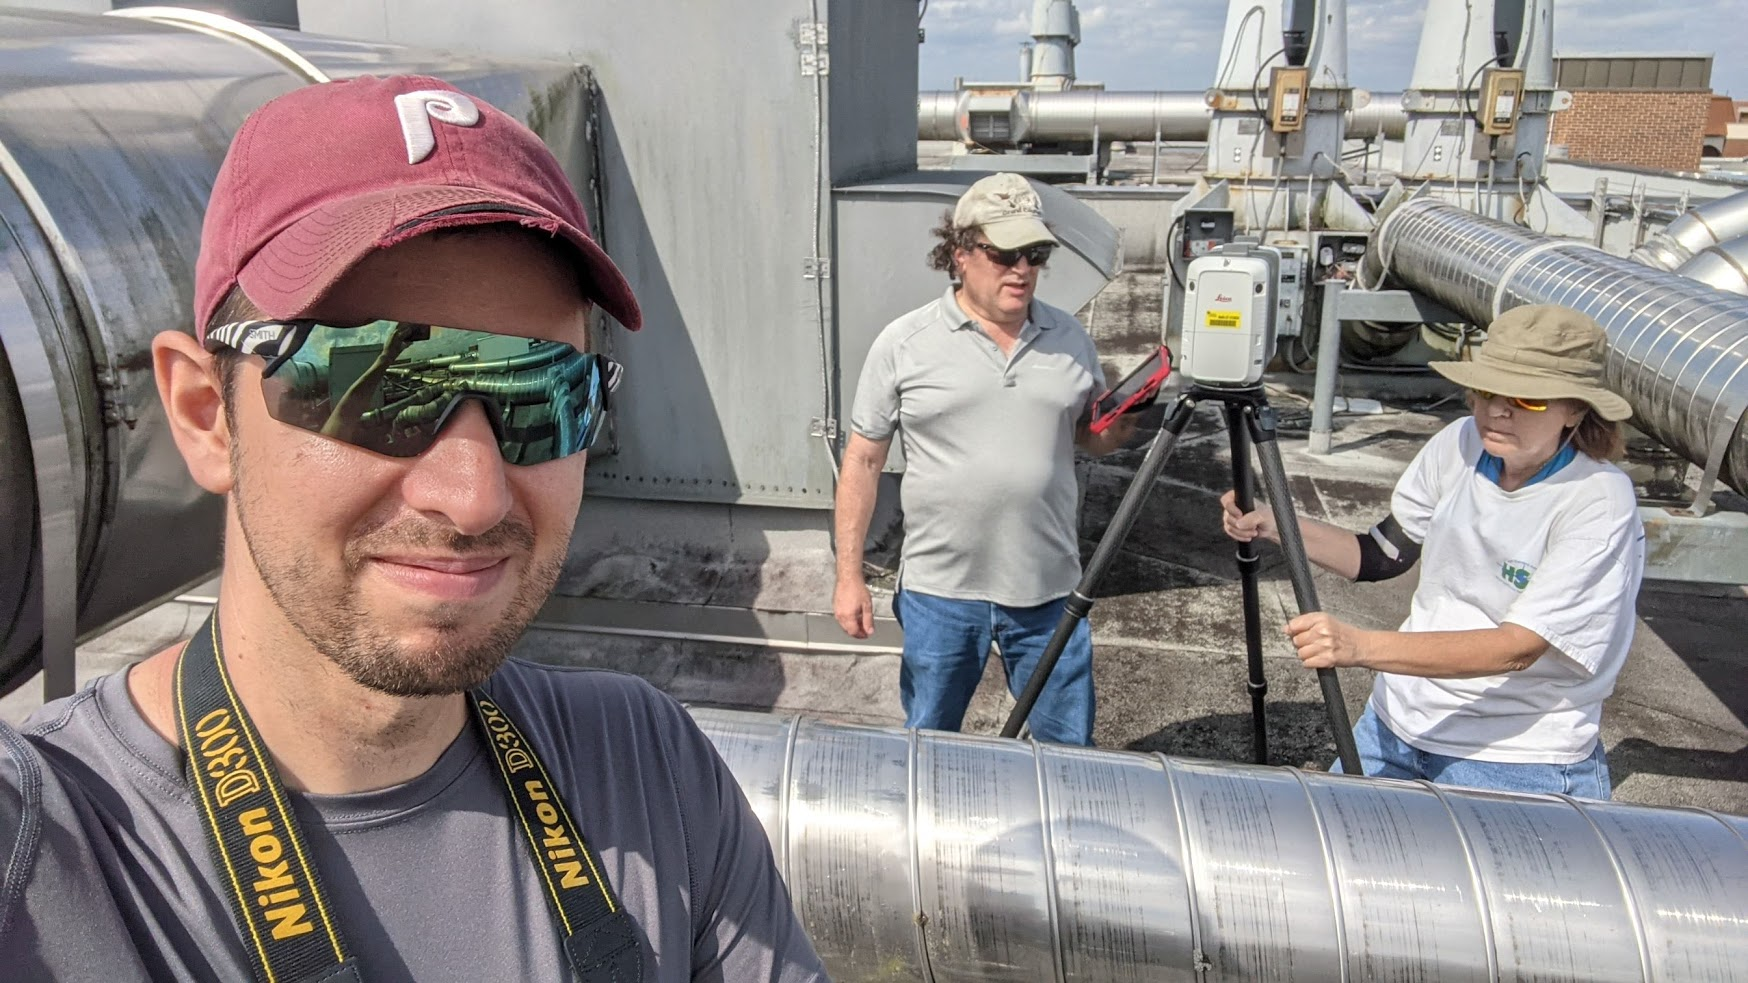
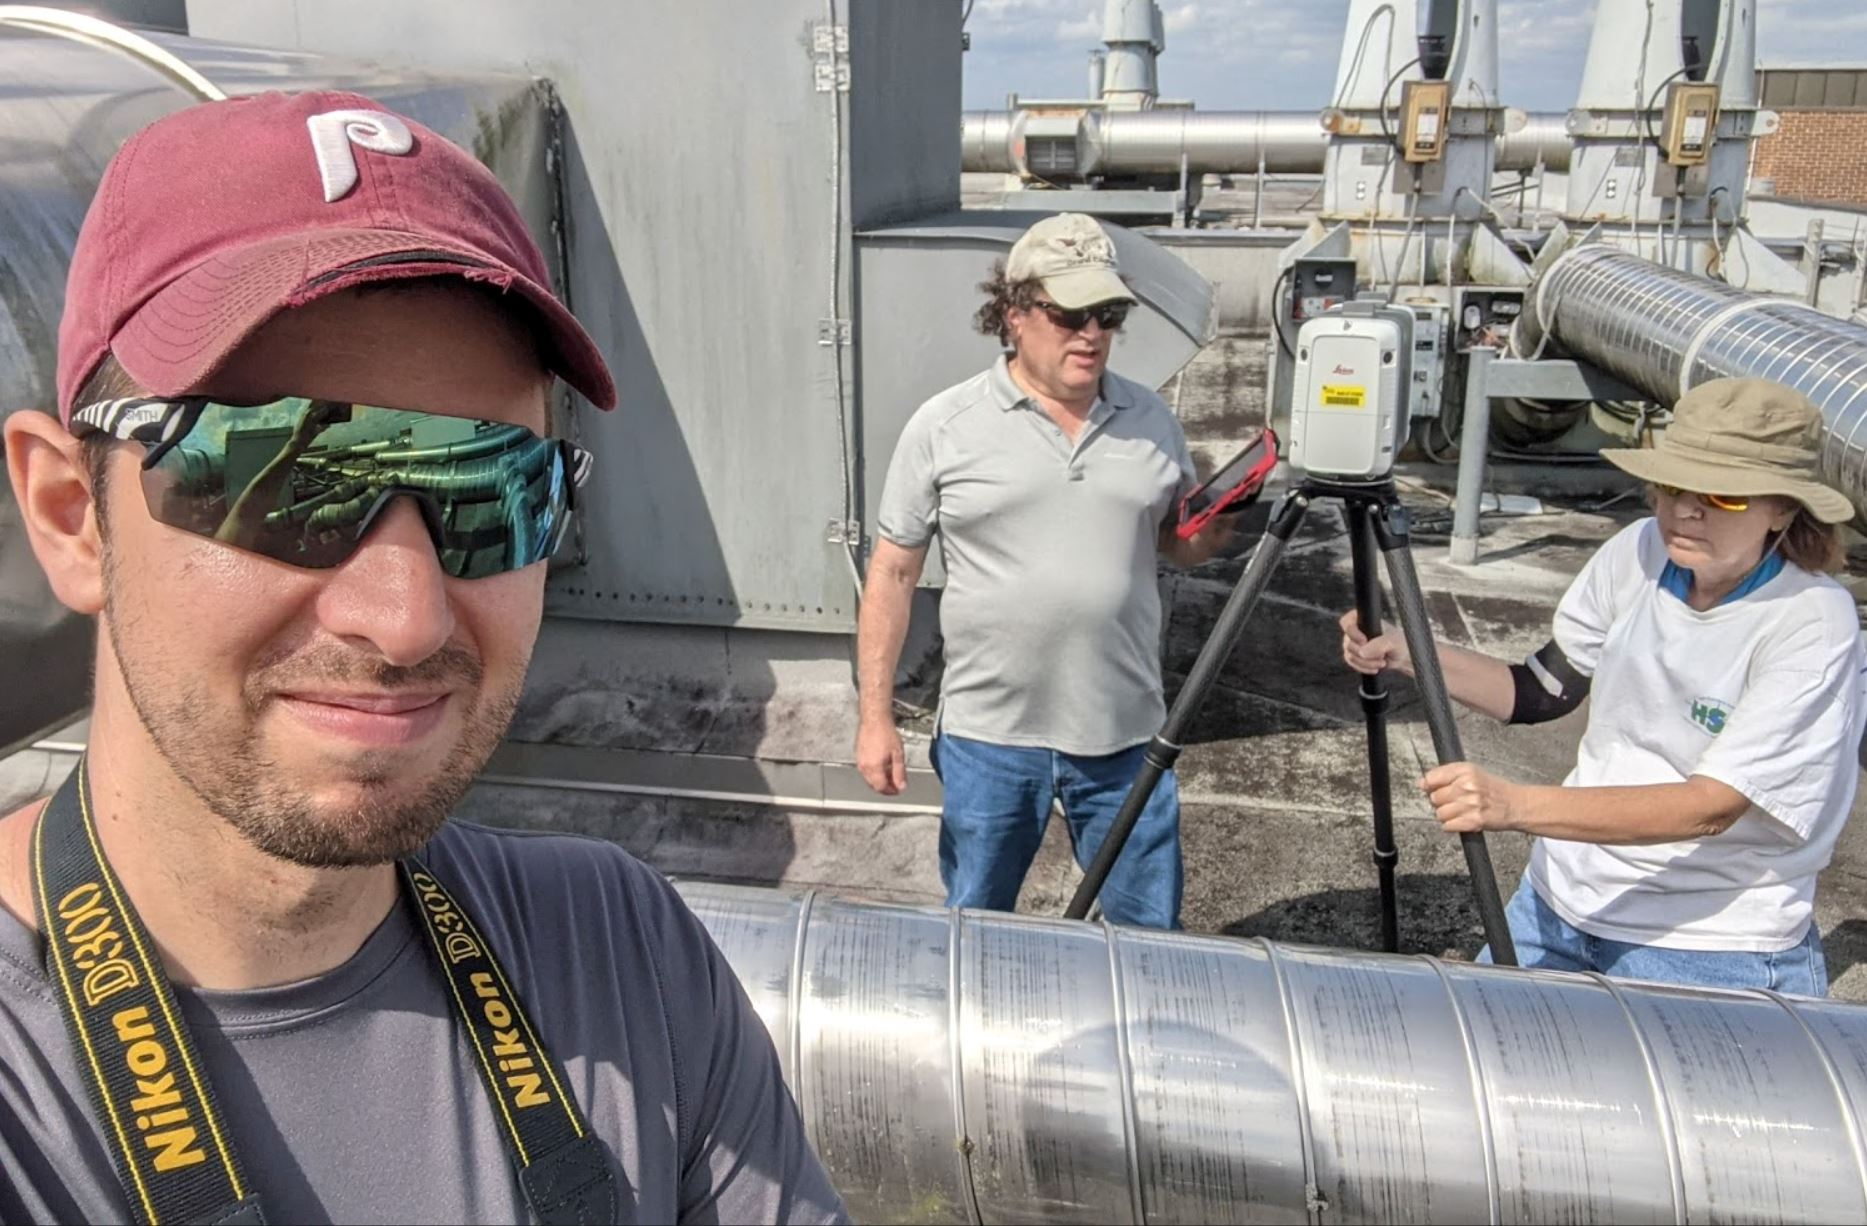
updated photo of delrocco

diff --git a/workingwithme.html b/workingwithme.html
@@ -74,7 +74,7 @@ layout: default
          <div class="col-sm-6 col-md-4 col-lg-4 col-xl-4 mix XR CulturalHeritage">
            <div class="portfolio-item">
              <div class="shot-item">
-               <img src="assets/img/about/sdl3.jpg" alt="" /> 
+               <img src="assets/img/about/sd3.jpg" alt="" /> 
              </div>               
            </div>
          </div>
